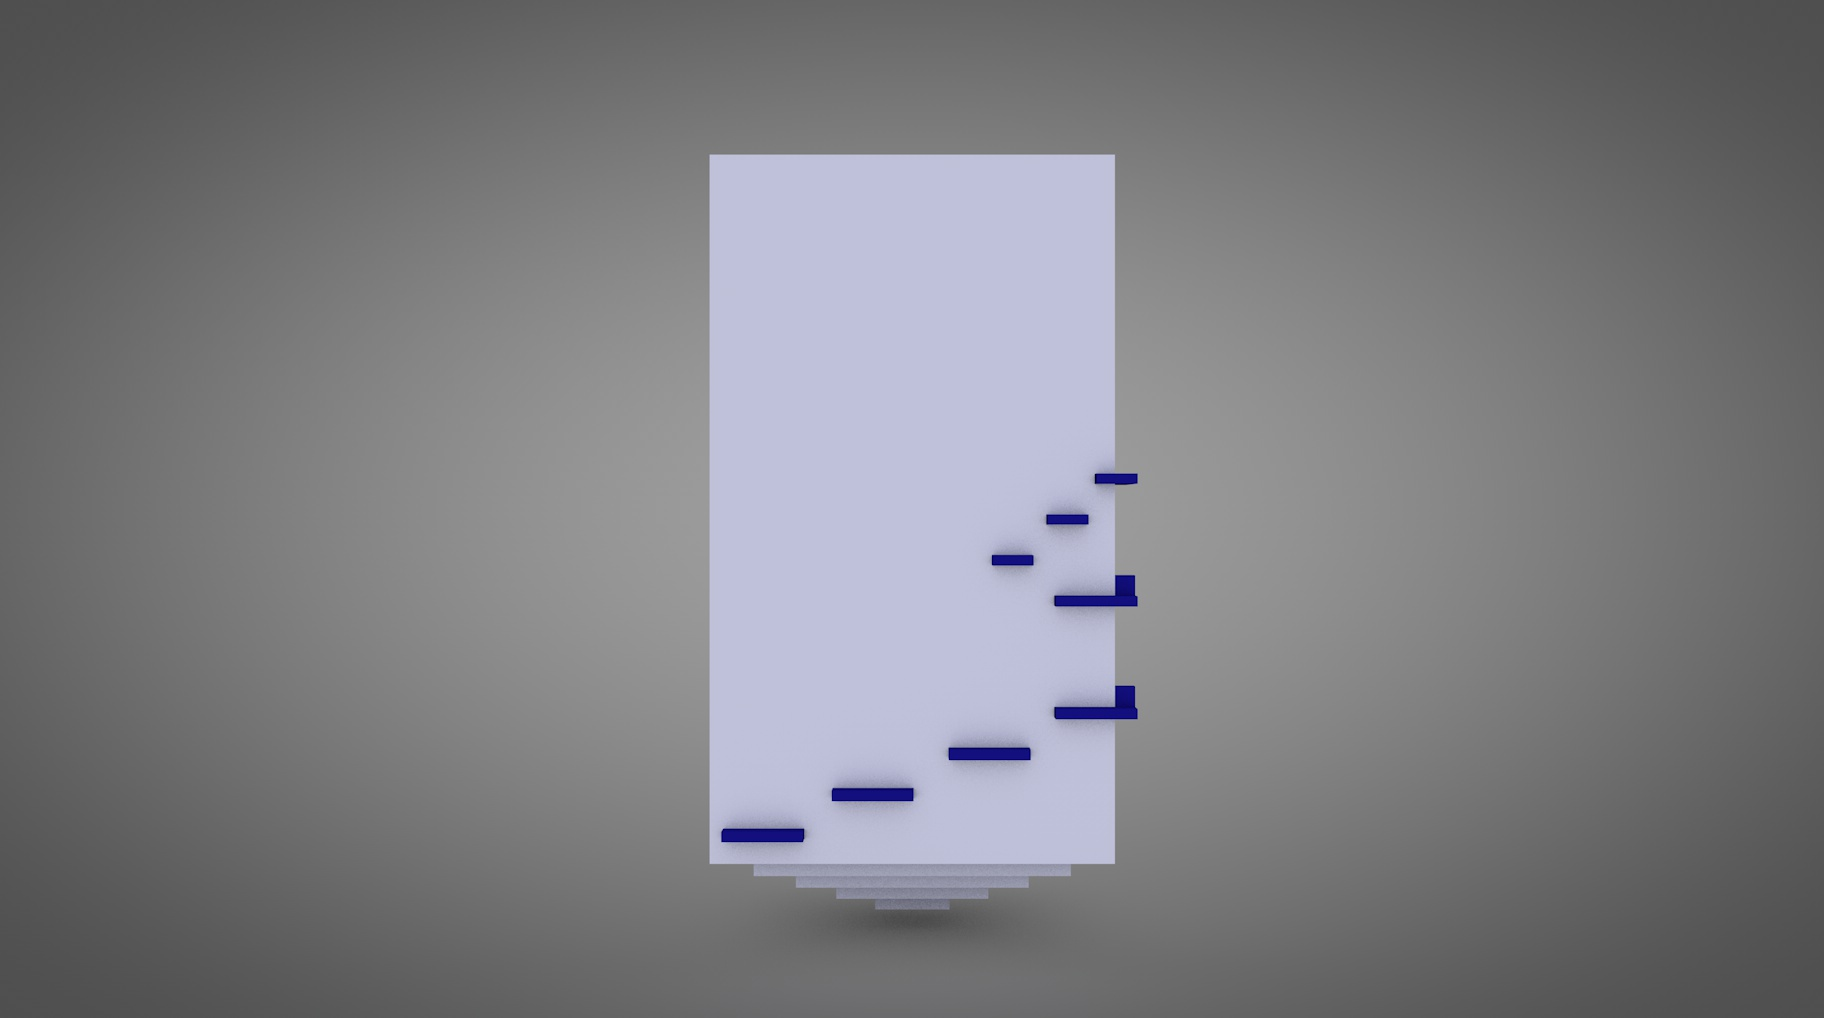
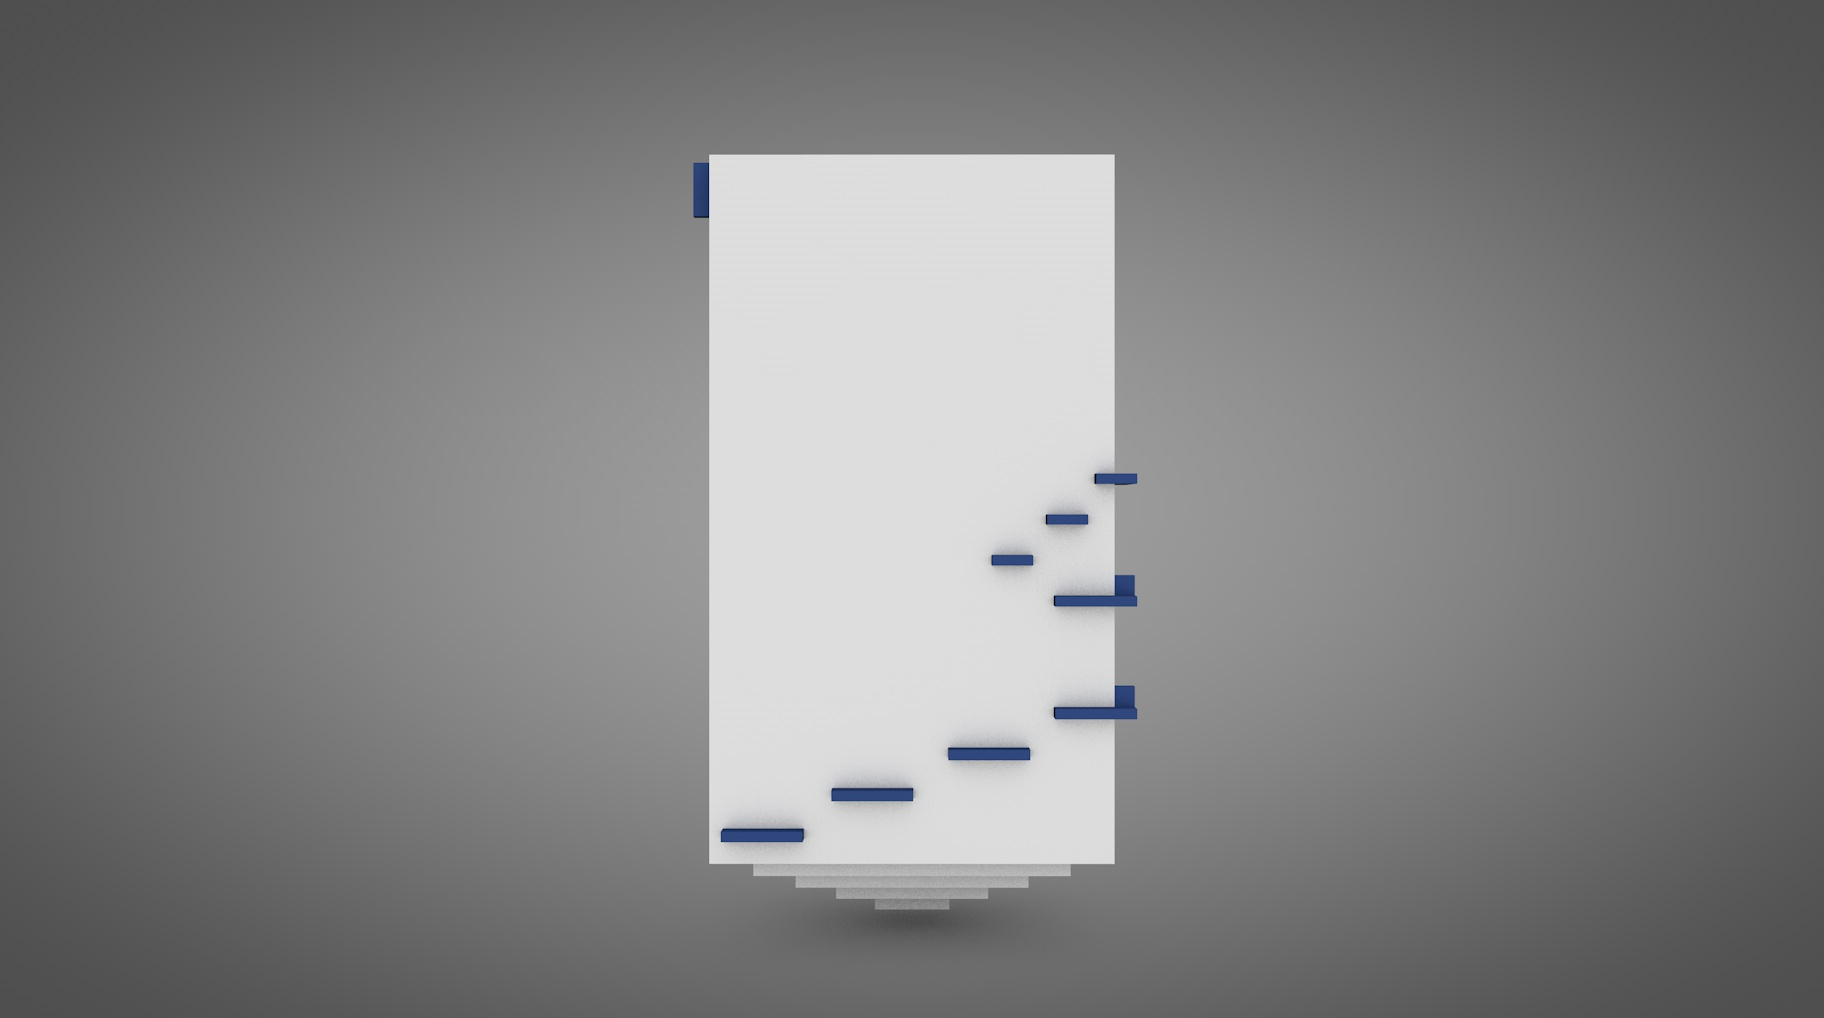
cheanged side change to happen, when player is in correct place on correct plattform (left or right)

Changed region(s): [[0.375, 0.1523, 0.625, 0.8831]]

diff --git a/MainGame.js b/MainGame.js
@@ -4,6 +4,9 @@
 document.onkeydown=function(){keyInput()};
 window.onload = onReady; // first function call
 
+// test mode
+var godmode = false;
+
 // mouse position any time
 var mouseX, mouseY;
 
@@ -40,7 +43,7 @@ var sideNum = 1;
 
 // player
 var myPlayers = [];
-var playerCounter = 1;
+var playerCounter = 0;
 var playerX;
 var playerY;
 // player direction
@@ -105,6 +108,17 @@ function draw () {
     playerX = myPlayers[0].getXpos();
     playerY = myPlayers[0].getYpos();
 
+    // change side if player reached right plattform
+    if(videoPlayed == true){
+        if(sideNum==1){
+            if(playerX>=1123 && playerX<=1127 && playerY<=701 && playerY>=699){
+                sideNum++;
+                countFrame = seconds+2;
+                videoPlayed = false;
+            }
+        }
+    }
+
     // printing text in canvas
     ctx.fillStyle = "#bbbbbb";
     ctx.font = "normal 11px Roboto-Medium";
@@ -145,32 +159,36 @@ function pick(event) {
 // changeing the Sides
 function keyInput(e) {
     e = e || window.event;
-    switch (e.keyCode) {
-        case 37: // left arrow
-            sideNum--;
-            break;
-        case 39: // right arrow
-            sideNum++;
-            countFrame = seconds+2;
-            videoPlayed = false;
-            break;
-        case 65: // a
-            playDir = "a";
-            break;
-        case 87: // w
-            playDir = "w";
-            break;
-        case 68: // d
-            playDir = "d";
-            break;
-        case 83: // s
-            playDir = "s";
-            break;                        
-        default:
-            sideNum = sideNum;
-            //console.log(e);
-            break;    
-    }
+    if(godmode){
+        switch (e.keyCode) {
+            case 37: // left arrow
+                sideNum--;
+                break;
+            case 39: // right arrow
+                sideNum++;
+                countFrame = seconds+2;
+                videoPlayed = false;
+                break;
+        }
+    }    
+        switch (e.keyCode) {            
+            case 65: // a
+                playDir = "a";
+                break;
+            case 87: // w
+                playDir = "w";
+                break;
+            case 68: // d
+                playDir = "d";
+                break;
+            case 83: // s
+                playDir = "s";
+                break;                        
+            default:
+                sideNum = sideNum;
+                //console.log(e);
+                break;    
+        }
     // if square is turned around fully go to start / last page
     if(sideNum>=5){
         sideNum=1;

diff --git a/js/Box2DSides.js b/js/Box2DSides.js
@@ -16,11 +16,14 @@ if(prevSideNum != sideNum){
     }
     if(this.videoPlayed){ 
         if(sideNum==1){ // Creating Side One
-            this.mySquaresForJumping.push(new Box2DBondary(760, 835, 40, 5, 0));
-            this.mySquaresForJumping.push(new Box2DBondary(1085, 805, 20, 5, 0));
-            this.mySquaresForJumping.push(new Box2DBondary(980, 785, 20, 5, 0));
-            this.mySquaresForJumping.push(new Box2DBondary(865, 765, 20, 5, 0));
-            this.mySquaresForJumping.push(new Box2DBondary(745, 745, 20, 5, 0));
+            this.mySquaresForJumping.push(new Box2DBondary(762, 835, 40, 5, 0));
+            this.mySquaresForJumping.push(new Box2DBondary(872, 797, 40, 5, 0));
+            this.mySquaresForJumping.push(new Box2DBondary(990, 757, 40, 5, 0));
+            this.mySquaresForJumping.push(new Box2DBondary(1095, 715, 40, 5, 0));
+            this.mySquaresForJumping.push(new Box2DBondary(1095, 605, 40, 5, 0));
+            this.mySquaresForJumping.push(new Box2DBondary(1013, 560, 20, 5, 0));
+            this.mySquaresForJumping.push(new Box2DBondary(1067, 520, 20, 5, 0));
+            this.mySquaresForJumping.push(new Box2DBondary(1116, 480, 20, 5, 0));
         }else if(sideNum==2){ // Creating Side Two
             this.mySquaresForJumping.push(new Box2DBondary(1200, 845, 5, 50, 0));
             this.mySquaresForJumping.push(new Box2DBondary(300, 300, 5, 100, 0));
